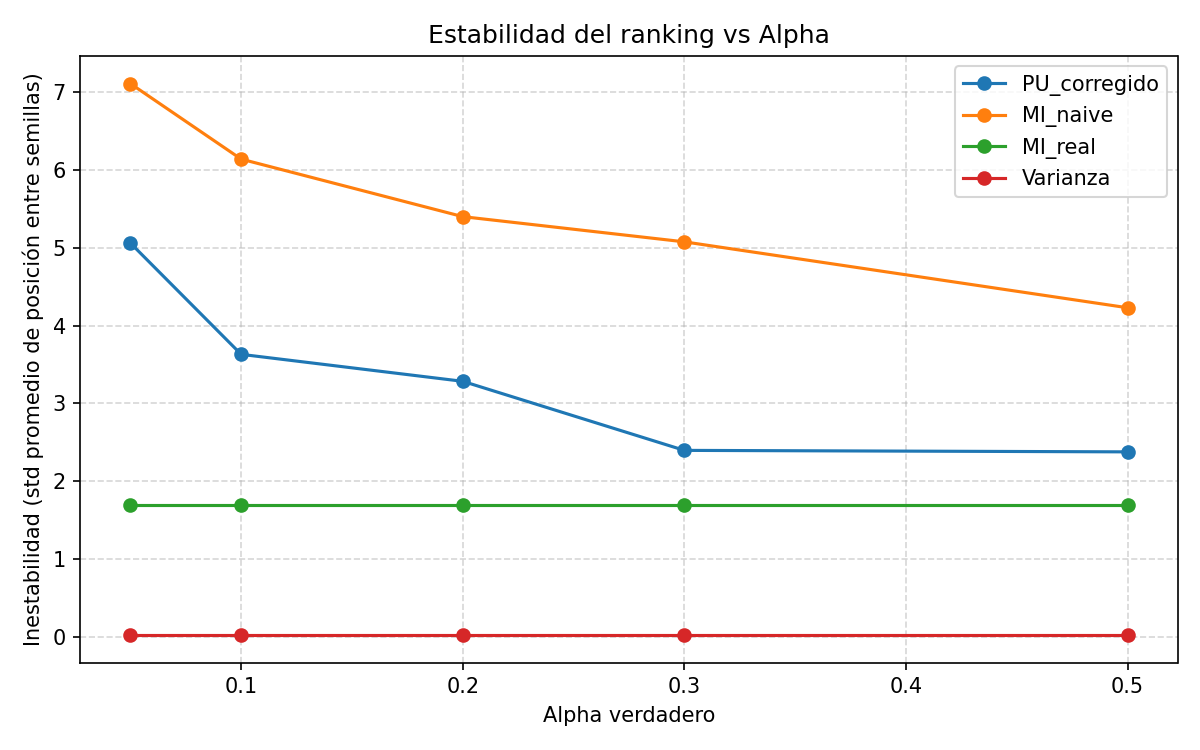
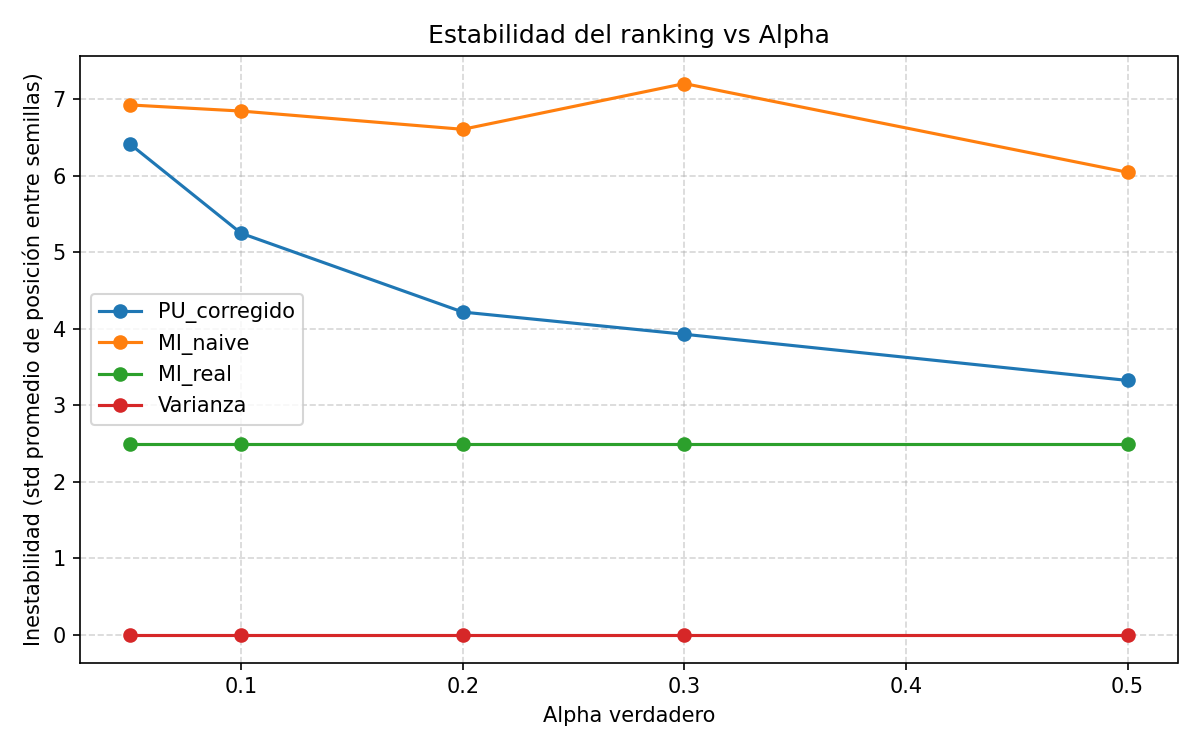
Baseline breast_cancer

diff --git a/main.py b/main.py
@@ -41,9 +41,36 @@ def main():
     mlflow.set_experiment(EXPERIMENT_NAME)
 
     with mlflow.start_run(run_name=RUN_NAME):
-        mlflow.log_param("dataset", "breast_cancer")
-        mlflow.log_param("run_mode", RUN_MODE)
+        # Estructura del dataset
+        n_samples, n_features = X.shape
+        n_positives = int(y.sum())
+        n_negatives = int((y == 0).sum())
+        class_balance = round(n_positives / n_samples, 4) # proporción de positivos (que tan minoritaria es la clase positiva)
+
+        mlflow.log_param("dataset",            "breast_cancer")
+        mlflow.log_param("n_samples",          n_samples)
+        mlflow.log_param("n_features",         n_features)
+        mlflow.log_param("n_positives",        n_positives)
+        mlflow.log_param("n_negatives",        n_negatives)
+        mlflow.log_param("class_balance",      class_balance)
+
+        # Estadísticas descriptivas de features (antes de ruido) 
+        stats = pd.DataFrame({
+            "feature":  feature_names,
+            "mean":     np.mean(X, axis=0),
+            "std":      np.std(X, axis=0),
+            "min":      np.min(X, axis=0),
+            "max":      np.max(X, axis=0),
+            "median":   np.median(X, axis=0),
+        })
+        stats_path = "dataset_feature_stats.csv"
+        stats.to_csv(stats_path, index=False)
+        mlflow.log_artifact(stats_path)
+
+        # Configuración del experimento 
+        mlflow.log_param("run_mode",    RUN_MODE)
         mlflow.log_param("noise_level", NOISE_LEVEL)
+        mlflow.log_param("top_k",       TOP_K)
         if RUN_MODE != 'sweep':
             mlflow.log_param("alpha_true", ALPHA_TRUE)
             mlflow.log_param("random_state", RANDOM_STATE)
@@ -183,7 +210,6 @@ def main():
 
             mlflow.log_param('sweep_alphas', str(alphas))
             mlflow.log_param('sweep_seeds',  str(seeds))
-            mlflow.log_param('top_k',        int(TOP_K))
             mlflow.log_param('n_runs',       int(len(rows)))
 
             mlflow.log_artifact('alpha_sweep_runs.csv')

diff --git a/src/config.py b/src/config.py
@@ -9,9 +9,9 @@ SWEEP_ALPHAS = [0.5, 0.3, 0.2, 0.1, 0.05]
 SWEEP_SEEDS = [0, 1, 2, 3, 4]
 
 # Ruido gaussiano en features (0 = sin ruido; p.ej. 0.3 = 30% de la std por feature)
-NOISE_LEVEL = 0.5
+NOISE_LEVEL = 1
 
 # Parámetros generales
 TOP_K = 10
 EXPERIMENT_NAME = "breast_cancer"
-RUN_NAME = "v2.1.2"
+RUN_NAME = "v2.2.1"
